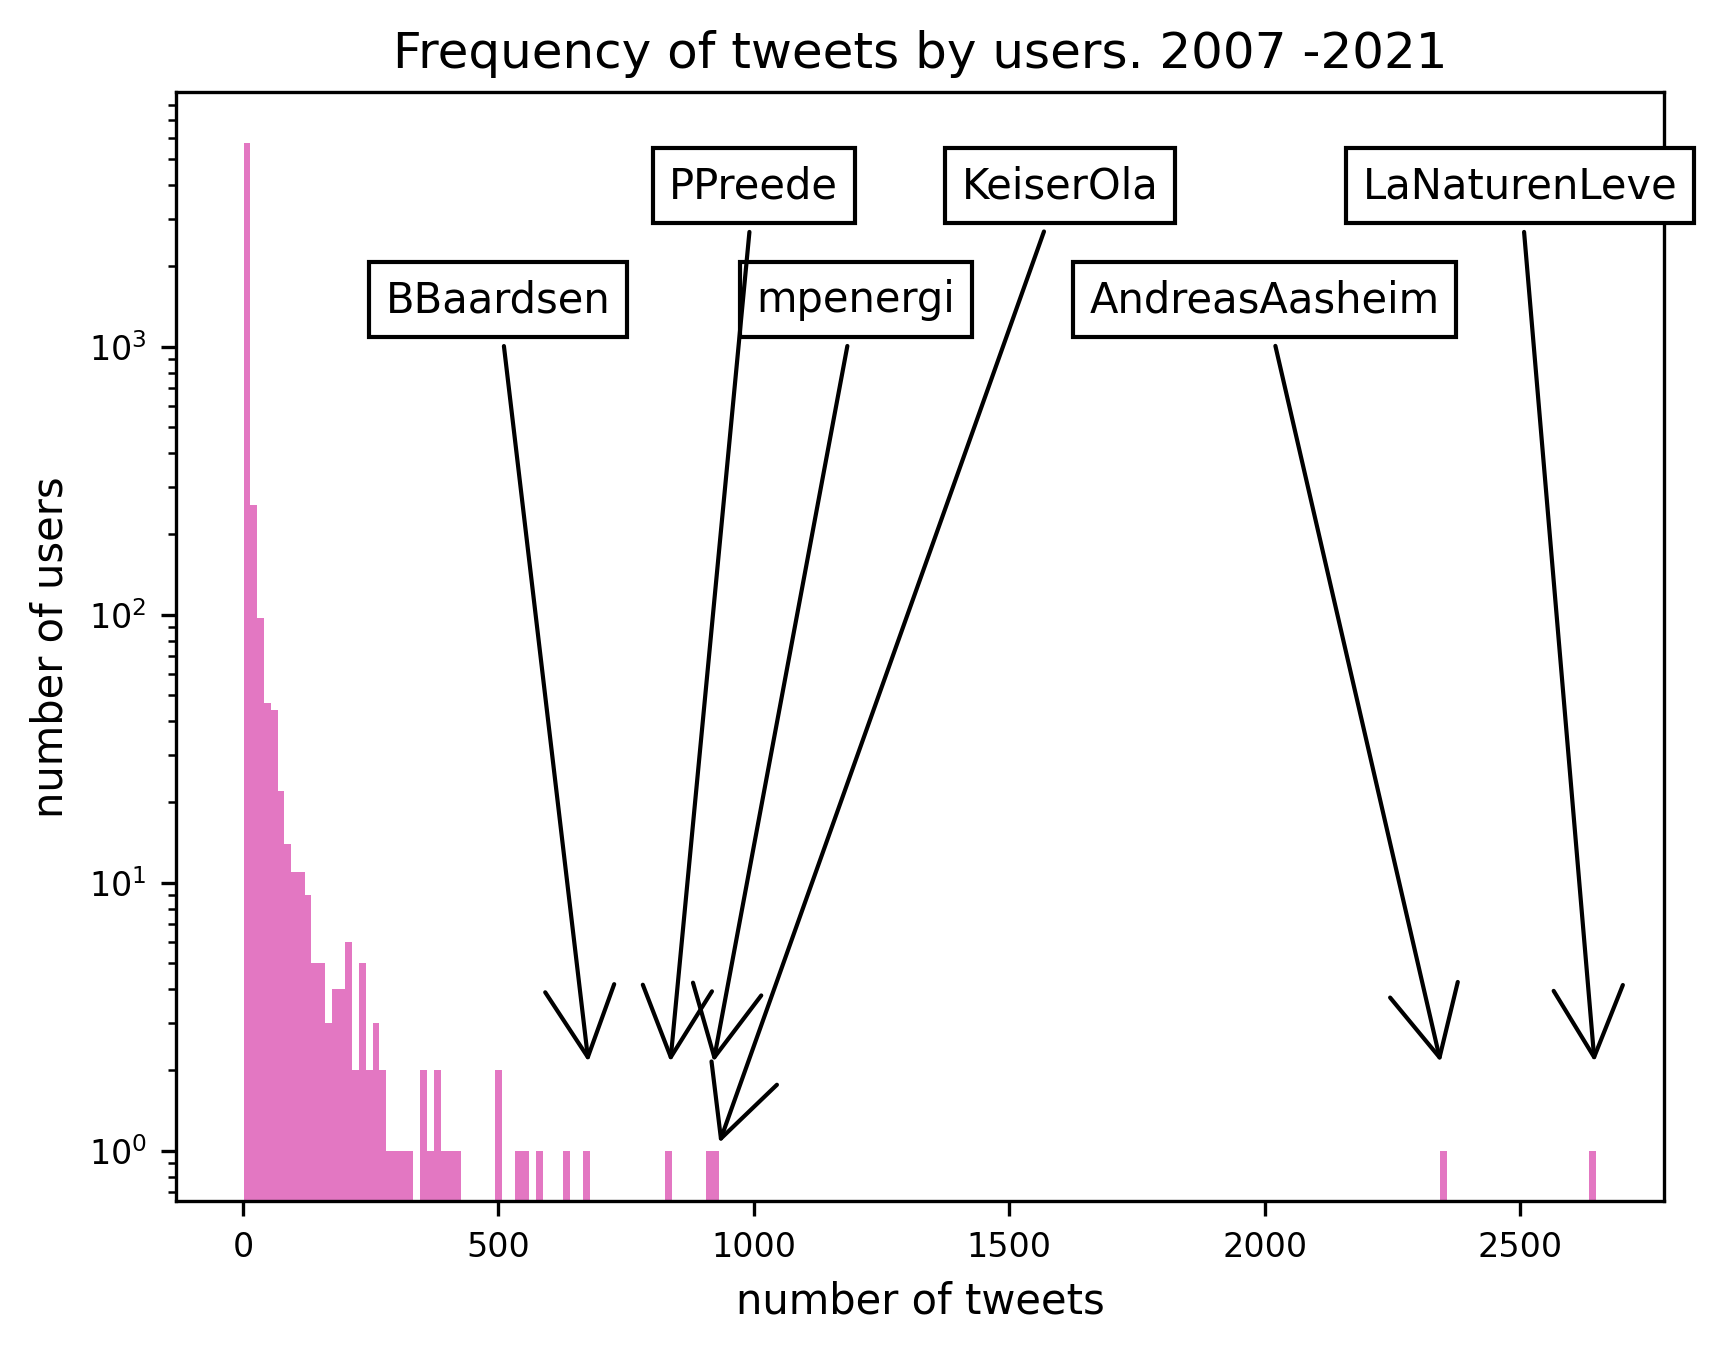
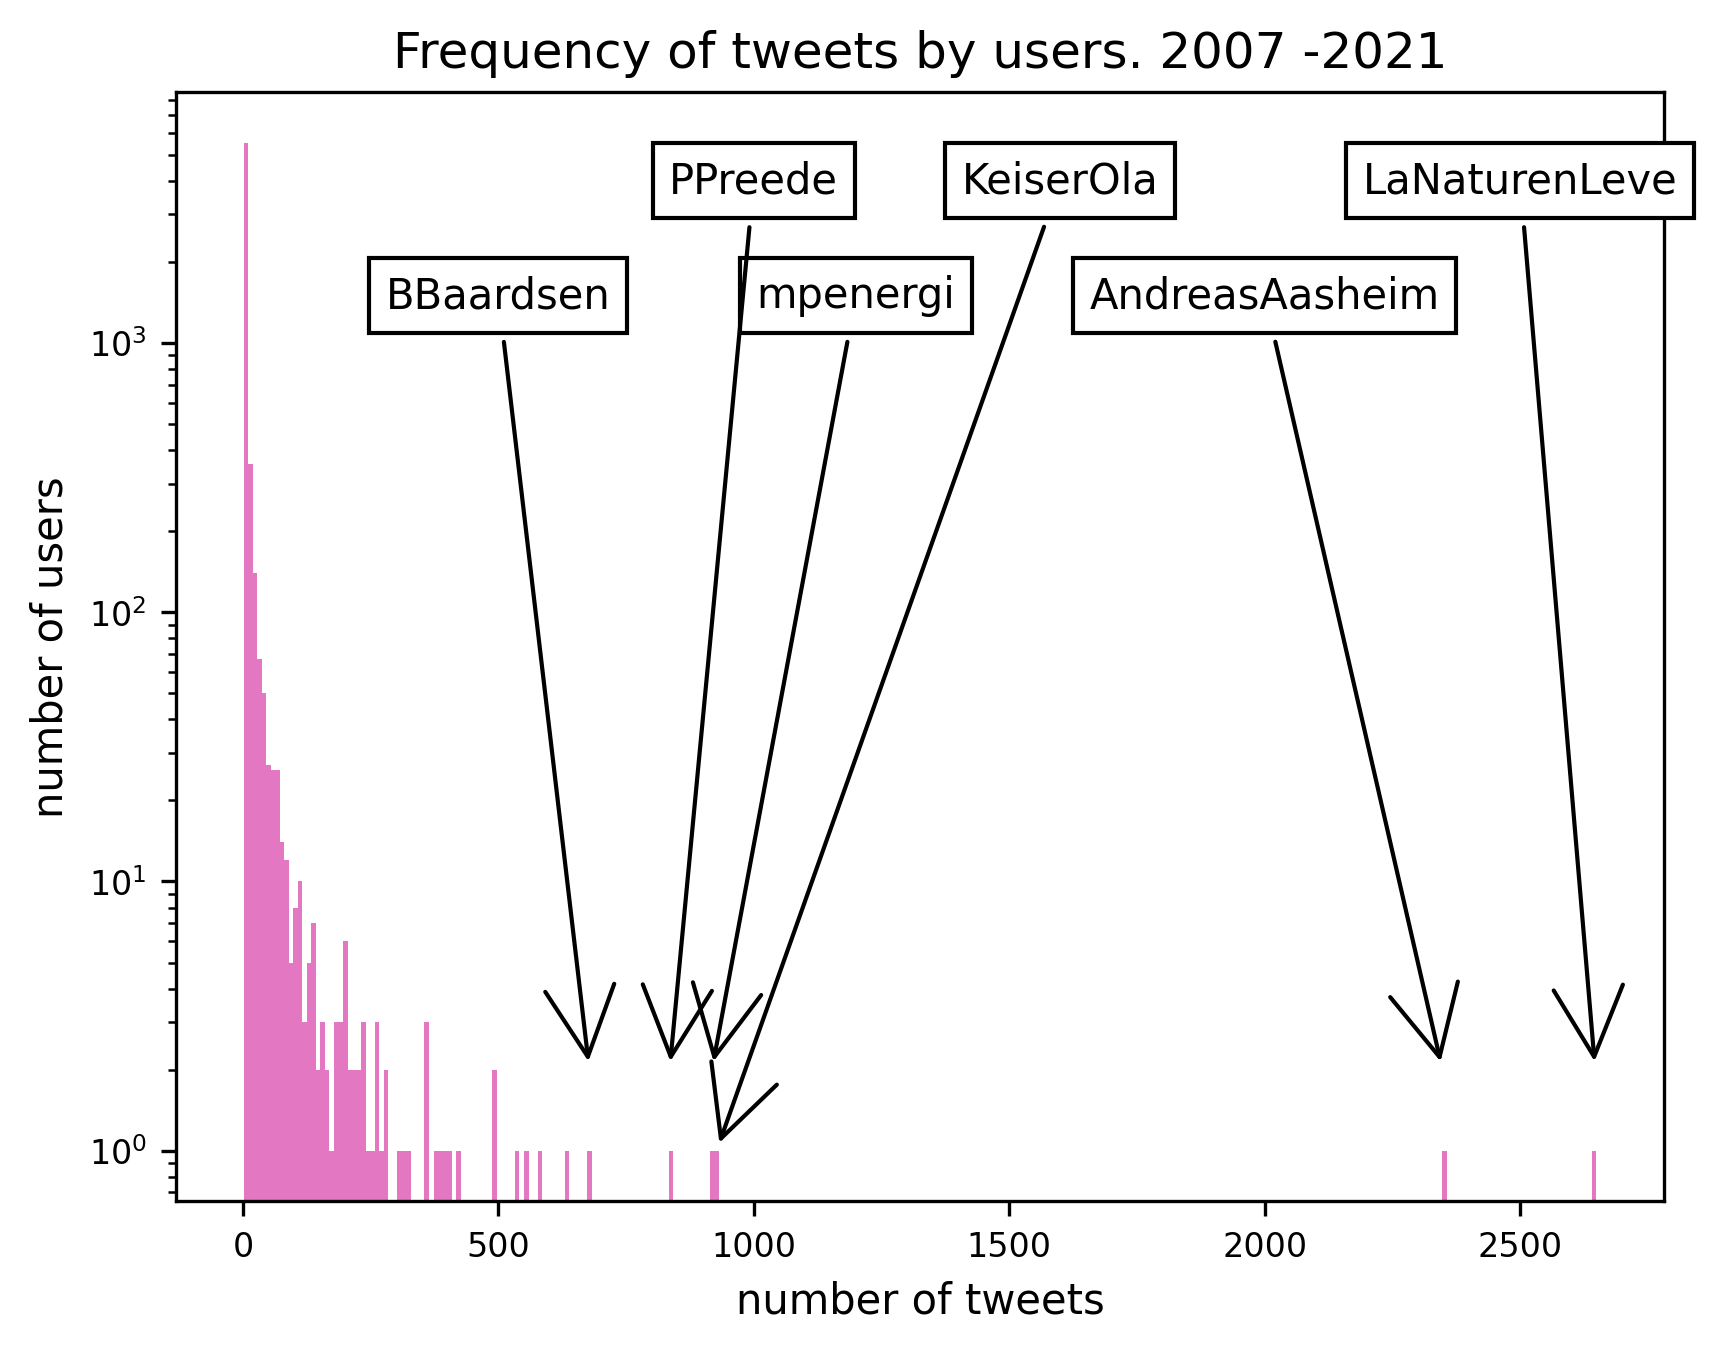
another plot update

diff --git a/data/anon_identifier.py b/data/anon_identifier.py
@@ -125,7 +125,7 @@ def anonymizer():
                         #box_alignment = (5, 1),
                         arrowprops = dict(arrowstyle='->'))
 
-    ax.hist(tweet_occurances.values() , bins = np.linspace(1, max_number_of_tweets+2, 200))
+    ax.hist(tweet_occurances.values() , bins = np.linspace(1, max_number_of_tweets+2, 300))
     plt.yscale('log')
     plt.xscale('linear')
     plt.ylabel('number of users')
